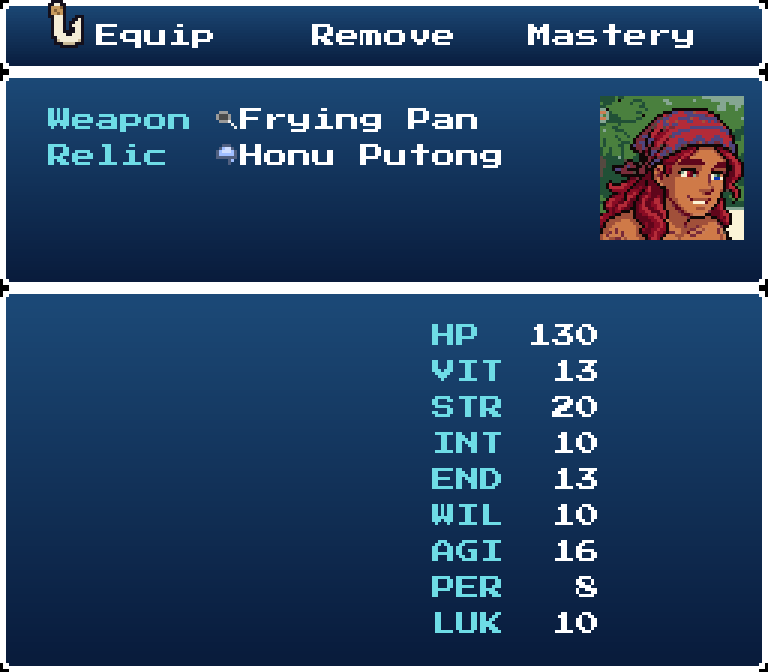
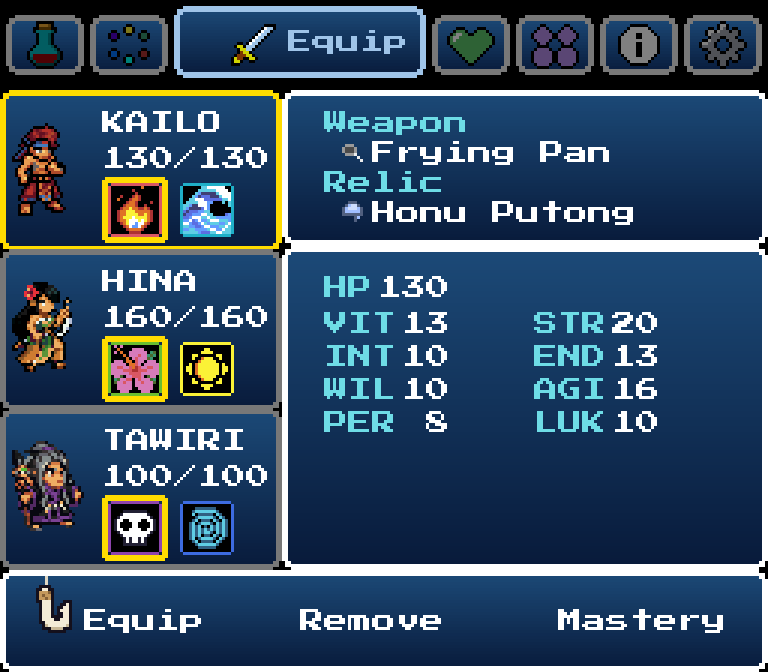
Site build 2026-11-18 09:24

diff --git a/manual.html b/manual.html
@@ -19,7 +19,7 @@
 <link rel="preconnect" href="https://fonts.googleapis.com">
 <link rel="stylesheet" href="https://fonts.googleapis.com/css2?family=Press+Start+2P&display=swap">
 <link rel="stylesheet" href="site.css?v=8ac13fef">
-<link rel="stylesheet" href="shell.css?v=7f9262b7">
+<link rel="stylesheet" href="shell.css?v=1eeab275">
 <script>(function(){var t=null,a=null,m=null;try{t=localStorage.getItem("nuitai-site-theme");a=localStorage.getItem("nuitai-ai-art");m=localStorage.getItem("nuitai-menu")||localStorage.getItem("nuitai-battle-menu")}catch(e){}document.documentElement.dataset.theme=(t==="dark"||t==="light")?t:"sepia";if(a==="off")document.documentElement.dataset.art="off";if(m==="hidden")document.documentElement.dataset.menu="hidden"})()</script>
 <script>document.documentElement.classList.add("turn")</script>
 <style>
@@ -546,7 +546,7 @@ else if(a.classList.contains("on")){d.classList.add("open");e.preventDefault()}}
       <div class="button" style="--b:#2f9447"><div class="badge"><big>Y</big><small>Button</small></div>
         <p>The Y Button uses the tool Kailo has set: the Ko'i, the Old Rod or the 'O'o (<a class="xref" href="#field">page 8</a>). Tap it to use the tool. Hold it to open the tool wheel, press the D-Pad toward a tool and let go to set it.</p></div>
       <div class="button" style="--b:#5d5a66"><div class="badge"><big>L/R</big><small>Buttons</small></div>
-        <p>On the Element, Equip and Status screens, press L or R to turn to the previous or next member of your party. While walking, press L or R to change who leads the way. In battle, Escape is played on L and R.</p></div>
+        <p>On the field menu, press L or R to turn to the previous or next tab. While walking, press L or R to change who leads the way. In battle, Escape is played on L and R.</p></div>
       <div class="button" style="--b:#5d5a66"><div class="badge"><big>Start</big><small>Button</small></div>
         <p>The START Button pauses the game. Press it again to pick up where you left off.</p></div>
       <div class="button" style="--b:#5d5a66"><div class="badge"><big>Sel</big><small>Select</small></div>
@@ -592,7 +592,7 @@ else if(a.classList.contains("on")){d.classList.add("open");e.preventDefault()}}
     <p>Some great beasts stand still and wait for you. When you walk up to one, you will be asked if you are ready. Say no to go back and prepare.</p>
     <h3 class="ring">Shops</h3>
     <div class="pair">
-      <figure class="shot"><div class="frame"><img src="manual/shop-buy.png" alt="The market stall's list: Noni Pulu, Taro, Wheat, Breadfruit and more, each with its price in pule" width="768" height="672"></div></figure>
+      <figure class="shot"><div class="frame"><img src="manual/shop-buy.png" alt="The grocer's list: Breadfruit, Noodles, Pia, seeds and more, each with its price in pule" width="768" height="672"></div></figure>
       <div>
         <p>Talk to a seller and choose <b>Buy</b> to see what they have, or <b>Sell</b> to sell from the bag: pick each thing and how many, then say yes once to the total. When choosing how many, Up and Down count one at a time, Left adds ten and Right takes ten off. Your pule is shown at the right.</p>
         <p>Prices are in <b>pule</b> <img class="coin" src="manual/pule.png" alt="">, the shell money of the islands. You will earn pule by winning battles, and sometimes by digging. Your wallet holds only so much, and bigger wallets can be bought, one size at a time. A full wallet takes no more: monsters drop none and digging finds none.</p>
@@ -645,40 +645,38 @@ else if(a.classList.contains("on")){d.classList.add("open");e.preventDefault()}}
     <h2 class="cap"><b class="dc">T</b><span class="rest">he Field<br>Menu</span></h2>
     <p class="lead">Press the X Button while walking around to open the field menu.</p>
     <figure class="shot"><div class="frame">
-      <img src="manual/menu.png" alt="The field menu" width="768" height="672">
-      <span class="pin" style="left:13%;top:12%">1</span>
-      <span class="pin" style="left:59%;top:11%">2</span>
-      <span class="pin" style="left:46%;top:20%">3</span>
-      <span class="pin" style="left:95%;top:28%">4</span>
-      <span class="pin" style="left:67%;top:68%">5</span>
-      <span class="pin" style="left:67%;top:87%">6</span>
+      <img src="manual/menu.png" alt="The field menu: seven tabs along the top, the party on the left, the Items page on the right" width="768" height="672">
+      <span class="pin" style="left:97%;top:12%">1</span>
+      <span class="pin" style="left:37%;top:24%">2</span>
+      <span class="pin" style="left:37%;top:31%">3</span>
+      <span class="pin" style="left:62%;top:30%">4</span>
+      <span class="pin" style="left:52%;top:92%">5</span>
     </div></figure>
     <ol class="key">
-      <li><b>1</b><span><b>Face</b><br>The three who fight. Move the cursor left onto the faces to change their order, or press Y on a face to switch the stance they start in.</span></li>
-      <li><b>2</b><span><b>Hit Points</b><br>HP. When a member's HP reaches 0, they fall.</span></li>
+      <li><b>1</b><span><b>Tabs</b><br>Seven of them: Items, Element, Equip, Status, Party, Info and Config. The open one shows its name. Press left or right to pick a tab, then down or A to open it. L and R change tabs from anywhere in the menu, and B steps back.</span></li>
+      <li><b>2</b><span><b>The party</b><br>The three who fight, with their HP, always on the left. Press left from a page to move the cursor here, then up or down to choose who the page is about. Press Y on a member to switch the stance they start in.</span></li>
       <li><b>3</b><span><b>Elements</b><br>The member's two elements. The boxed one is the stance they start a battle in.</span></li>
-      <li><b>4</b><span><b>Commands</b><br>Choose one with the D-Pad and press A.</span></li>
-      <li><b>5</b><span><b>Time and Steps</b><br>How long you have played and how far you have walked.</span></li>
-      <li><b>6</b><span><b>Money</b><br>Kupang <img class="coin" src="manual/kupang.png" alt="">, the coins, and pule <img class="coin" src="manual/pule.png" alt="">, the shells.</span></li>
+      <li><b>4</b><span><b>The page</b><br>What the open tab shows. This is the Items page.</span></li>
+      <li><b>5</b><span><b>Bottom window</b><br>It says what the cursor is on. When the cursor is not on anything, it shows your money: pule <img class="coin" src="manual/pule.png" alt=""> on the left, the shells, and kupang <img class="coin" src="manual/kupang.png" alt=""> on the right, the coins.</span></li>
     </ol>
     <div class="scroll">
     <table class="m">
       <tr><th>Command</th><th>What it does</th></tr>
-      <tr><td>Items</td><td>Look in the bag and use an item: heal someone, eat a seed, or learn a move.</td></tr>
+      <tr><td>Items</td><td>The party's bag. Use an item, give one to a member for battle, or learn a move from it.</td></tr>
       <tr><td>Element</td><td>Each member's element moves, row by row. Choose which moves go in which row.</td></tr>
       <tr><td>Equip</td><td>Change weapons and relics, take them off, and see how well each member knows their weapons.</td></tr>
-      <tr><td>Status</td><td>A page for each member: HP, Skill, stats and stances. Change the starting stance here.</td></tr>
+      <tr><td>Status</td><td>A page for each member: the eight stats, how close each is to growing, and their Skill. Press A to change the starting stance.</td></tr>
       <tr><td>Party</td><td>Choose who fights and who waits on the bench.</td></tr>
-      <tr><td>Info</td><td>Opens a short list: your Quests, the Bestiary, the Glossary, the Lore of the islands, and your Records.</td></tr>
+      <tr><td>Info</td><td>Your Quests, the Bestiary, the Glossary, the Lore of the islands and your Records, with the time you have played, your steps and the date.</td></tr>
       <tr><td>Config</td><td>Settings for the game: the cursor, how fast messages go, the window color, sound and the buttons.</td></tr>
     </table>
     </div>
     <p>There is no Save on the field menu. Save at an Akua totem (<a class="xref" href="#start">page 6</a>).</p>
-    <p>On the Element, Equip and Status screens, press L or R to turn to the next member without going back.</p>
+    <p>On the Element, Equip and Status tabs, move the cursor onto a member in the party column to see that member's page.</p>
 
     <h3 class="ring">Element</h3>
     <div class="pair">
-      <figure class="shot"><div class="frame"><img src="manual/loadout.png" alt="The Element screen: Hina's moves in numbered rows" width="768" height="672"></div></figure>
+      <figure class="shot"><div class="frame"><img src="manual/loadout.png" alt="The Element tab: Kailo's moves in numbered rows" width="768" height="672"></div></figure>
       <div>
         <p>Every element move sits in a numbered row, from 1 to 7. The row is what the move costs in Mana. Each row holds three moves.</p>
         <p>Move a move up to a higher row and it grows stronger, but it costs more.</p>
@@ -689,9 +687,9 @@ else if(a.classList.contains("on")){d.classList.add("open");e.preventDefault()}}
 
     <h3 class="ring">Equip</h3>
     <div class="pair">
-      <figure class="shot"><div class="frame"><img src="manual/equip.png" alt="The Equip screen: Kailo holds the Frying Pan" width="768" height="672"></div></figure>
+      <figure class="shot"><div class="frame"><img src="manual/equip.png" alt="The Equip tab: Kailo holds the Frying Pan" width="768" height="672"></div></figure>
       <div>
-        <p>First choose the member. The bar along the top holds three commands: <b>Equip</b>, <b>Remove</b> and <b>Mastery</b>.</p>
+        <p>Choose the member in the party column. The bar along the bottom holds three commands: <b>Equip</b>, <b>Remove</b> and <b>Mastery</b>.</p>
         <p><b>Equip</b>: choose the Weapon or the Relic, then what to wear. Before you take it, the stats show how it would change them, a gain in yellow and a loss in red, and a line says what it raises and what it lowers.</p>
         <p><b>Remove</b>: take the weapon or relic off and put it back in the bag.</p>
       </div>
@@ -705,20 +703,20 @@ else if(a.classList.contains("on")){d.classList.add("open");e.preventDefault()}}
 
     <h3 class="ring">Status</h3>
     <div class="pair">
-      <figure class="shot"><div class="frame"><img src="manual/status-kailo.png" alt="Kailo's Status page: his stats, his Skill and his two stances" width="768" height="672"></div></figure>
+      <figure class="shot"><div class="frame"><img src="manual/status-kailo.png" alt="Kailo's Status tab: his eight stats with their notches, and his Skill at the bottom" width="768" height="672"></div></figure>
       <div>
-        <p>Each member has a page: HP, the eight stats (<a class="xref" href="#stronger">page 28</a>), their Skill and their two stances.</p>
-        <p>The stance on top, in color, is the one they start every battle in. Press A to switch it, and watch the stats change with it.</p>
+        <p>Each member has a page: the eight stats (<a class="xref" href="#stronger">page 28</a>), each with a row of notches that fill as the stat gets closer to growing. The member's Skill is in the bottom window, with the stat under the cursor and its EXP to the next point.</p>
+        <p>The boxed element in the party column is the stance they start every battle in. Press A to switch it, and watch the stats change with it.</p>
       </div>
     </div>
 
     <h3 class="ring">Party</h3>
     <p>Only three fight at a time. The three on top fight; everyone else waits below.</p>
-    <p>Choose one, then another, and they trade places. Choose two from the same row to change their order. You can also change the order of the three by moving the cursor left onto the faces on the field menu.</p>
+    <p>Press A on one, then A on another, and they trade places. Two of the three on top change their order the same way. You can also do this from the party column on the left of any tab.</p>
 
     <h3 class="ring">Info</h3>
     <div class="pair">
-      <figure class="shot"><div class="frame"><img src="manual/data.png" alt="The Info screen: Bestiary, Lore and Quests" width="768" height="672"></div></figure>
+      <figure class="shot"><div class="frame"><img src="manual/data.png" alt="The Info tab: Quests, Bestiary, Glossary, Lore and Records, with the time, steps and date" width="768" height="672"></div></figure>
       <div>
         <p>Info opens a short list of five: <b>Quests</b>, <b>Bestiary</b>, <b>Glossary</b>, <b>Lore</b> and <b>Records</b>.</p>
         <p><b>Bestiary</b> has a page for every creature you have beaten. <b>Glossary</b> holds the island words you have learned, and <b>Records</b> what you have done so far.</p>
@@ -878,8 +876,8 @@ else if(a.classList.contains("on")){d.classList.add("open");e.preventDefault()}}
     <h2 class="cap"><b class="dc">I</b><span class="rest">tems</span></h2>
     <p class="lead">When your HP is low, during or after a battle, you will need items.</p>
     <div class="pair">
-      <figure class="shot"><div class="frame"><img src="manual/inventory.png" alt="The Items screen, with Noni in the bag" width="768" height="672"></div></figure>
-      <p>The party shares one bag, sorted by kind: Medicine, Ingredients, Meals, Weapons, Relics, Key Items and more. Use items with Items on the field menu, or Item in battle. On the field menu, Items asks which kind first; in a list, press left or right on the D-Pad to turn to the next kind, and each press of B goes back one step. The window at the top tells you what the item under the cursor does. When an item has an island name, the window says what it is in plain English first, such as "Noni poultice" or "Taro paste".</p>
+      <figure class="shot"><div class="frame"><img src="manual/inventory.png" alt="The Items tab: Kailo's battle bag on top, the shared bag below" width="768" height="672"></div></figure>
+      <p>The party shares one bag, sorted by kind: Medicine, Ingredients, Meals, Weapons, Relics, Key Items and more. Use items with Items on the field menu, or Item in battle. On the Items tab, the shared bag is the lower window: press up to the kind at its top, then left or right to turn to the next kind. Each press of B goes back one step. The window at the bottom tells you what the item under the cursor does. When an item has an island name, the window says what it is in plain English first, such as "Noni poultice" or "Taro paste".</p>
     </div>
 
     <h3 class="ring">Battle Bags</h3>

diff --git a/credits.html b/credits.html
@@ -17,7 +17,7 @@
 <meta name="robots" content="noindex, nofollow">
 <title>Credits and Legal · Nuitai</title>
 <link rel="stylesheet" href="site.css?v=8ac13fef">
-<link rel="stylesheet" href="shell.css?v=7f9262b7">
+<link rel="stylesheet" href="shell.css?v=1eeab275">
 <script>(function(){var t=null,a=null,m=null;try{t=localStorage.getItem("nuitai-site-theme");a=localStorage.getItem("nuitai-ai-art");m=localStorage.getItem("nuitai-menu")||localStorage.getItem("nuitai-battle-menu")}catch(e){}document.documentElement.dataset.theme=(t==="dark"||t==="light")?t:"sepia";if(a==="off")document.documentElement.dataset.art="off";if(m==="hidden")document.documentElement.dataset.menu="hidden"})()</script>
 </head>
 <body class="shelled">
@@ -232,7 +232,7 @@ legs/shorts/shorts/male/walk.png
 
   <section class="block hue" style="--h:45" id="ai">
     <h2>How AI was used</h2>
-    <p><b>The world is the author's.</b> Every place, people, god, name, date and rule in the wiki was decided by the author, in notes, conversations and a written list of decisions, 482 of them today. Claude does the clerical work: it sorts those facts into articles, writes them up in a plain encyclopedia voice, links each name to its page, and checks that the articles agree with each other. When Claude suggests something, it becomes part of Nuitai only if the author decides it, and then it is written down as the author's decision. The wiki is a record of the author's world, not creative writing by an AI.</p>
+    <p><b>The world is the author's.</b> Every place, people, god, name, date and rule in the wiki was decided by the author, in notes, conversations and a written list of decisions, 484 of them today. Claude does the clerical work: it sorts those facts into articles, writes them up in a plain encyclopedia voice, links each name to its page, and checks that the articles agree with each other. When Claude suggests something, it becomes part of Nuitai only if the author decides it, and then it is written down as the author's decision. The wiki is a record of the author's world, not creative writing by an AI.</p>
     <ul>
       <li><b>The illustrations</b> are AI placeholder concept art and will be replaced. Nearly all were made with Google Gemini, a few with ChatGPT, and each picture says which under it. They stand in until the author draws the real ones.</li>
       <li><b>The SNES Demo's faces</b> are cut down from the Gemini pictures, and four of its six small element icons were placed by Claude from the author's icons.</li>

diff --git a/behind-the-scenes.html b/behind-the-scenes.html
@@ -17,7 +17,7 @@
 <meta name="robots" content="noindex, nofollow">
 <title>Behind the Scenes · Nuitai</title>
 <link rel="stylesheet" href="site.css?v=8ac13fef">
-<link rel="stylesheet" href="shell.css?v=7f9262b7">
+<link rel="stylesheet" href="shell.css?v=1eeab275">
 <script>(function(){var t=null,a=null,m=null;try{t=localStorage.getItem("nuitai-site-theme");a=localStorage.getItem("nuitai-ai-art");m=localStorage.getItem("nuitai-menu")||localStorage.getItem("nuitai-battle-menu")}catch(e){}document.documentElement.dataset.theme=(t==="dark"||t==="light")?t:"sepia";if(a==="off")document.documentElement.dataset.art="off";if(m==="hidden")document.documentElement.dataset.menu="hidden"})()</script>
 <script>(function(){var r=document.documentElement,i=null;try{i=sessionStorage.getItem("nuitai-behind")}catch(e){}
 if(i!=="in")r.classList.add("gated")})()</script>

diff --git a/math.html b/math.html
@@ -17,7 +17,7 @@
 <meta name="robots" content="noindex, nofollow">
 <title>Battle Math · Nuitai</title>
 <link rel="stylesheet" href="site.css?v=8ac13fef">
-<link rel="stylesheet" href="shell.css?v=7f9262b7">
+<link rel="stylesheet" href="shell.css?v=1eeab275">
 <script>(function(){var t=null,a=null,m=null;try{t=localStorage.getItem("nuitai-site-theme");a=localStorage.getItem("nuitai-ai-art");m=localStorage.getItem("nuitai-menu")||localStorage.getItem("nuitai-battle-menu")}catch(e){}document.documentElement.dataset.theme=(t==="dark"||t==="light")?t:"sepia";if(a==="off")document.documentElement.dataset.art="off";if(m==="hidden")document.documentElement.dataset.menu="hidden"})()</script>
 <style>
   .roll { display: block; font-family: ui-monospace, Consolas, monospace; font-size: .85rem; color: var(--muted); margin-top: .2rem; }

diff --git a/ask.html b/ask.html
@@ -17,7 +17,7 @@
 <meta name="robots" content="noindex, nofollow">
 <title>Ask Sarjana · Nuitai</title>
 <link rel="stylesheet" href="site.css?v=8ac13fef">
-<link rel="stylesheet" href="shell.css?v=7f9262b7">
+<link rel="stylesheet" href="shell.css?v=1eeab275">
 <script>(function(){var t=null,a=null,m=null;try{t=localStorage.getItem("nuitai-site-theme");a=localStorage.getItem("nuitai-ai-art");m=localStorage.getItem("nuitai-menu")||localStorage.getItem("nuitai-battle-menu")}catch(e){}document.documentElement.dataset.theme=(t==="dark"||t==="light")?t:"sepia";if(a==="off")document.documentElement.dataset.art="off";if(m==="hidden")document.documentElement.dataset.menu="hidden"})()</script>
 <style>
 /* Ask Sarjana (Frankie, 10/15): a conversation with the scholar. His words in Wai's blue, the visitor's in a warm sand. */

diff --git a/404.html b/404.html
@@ -18,7 +18,7 @@
 <meta name="twitter:card" content="summary_large_image">
 <title>Lost at Sea · Nuitai</title>
 <link rel="stylesheet" href="site.css?v=8ac13fef">
-<link rel="stylesheet" href="shell.css?v=7f9262b7">
+<link rel="stylesheet" href="shell.css?v=1eeab275">
 <script>(function(){var t=null,a=null,m=null;try{t=localStorage.getItem("nuitai-site-theme");a=localStorage.getItem("nuitai-ai-art");m=localStorage.getItem("nuitai-menu")||localStorage.getItem("nuitai-battle-menu")}catch(e){}document.documentElement.dataset.theme=(t==="dark"||t==="light")?t:"sepia";if(a==="off")document.documentElement.dataset.art="off";if(m==="hidden")document.documentElement.dataset.menu="hidden"})()</script>
 </head>
 <body class="shelled">

diff --git a/tabletop.html b/tabletop.html
@@ -17,7 +17,7 @@
 <meta name="robots" content="noindex, nofollow">
 <title>Tabletop Guide · Nuitai</title>
 <link rel="stylesheet" href="site.css?v=8ac13fef">
-<link rel="stylesheet" href="shell.css?v=7f9262b7">
+<link rel="stylesheet" href="shell.css?v=1eeab275">
 <script>(function(){var t=null,a=null,m=null;try{t=localStorage.getItem("nuitai-site-theme");a=localStorage.getItem("nuitai-ai-art");m=localStorage.getItem("nuitai-menu")||localStorage.getItem("nuitai-battle-menu")}catch(e){}document.documentElement.dataset.theme=(t==="dark"||t==="light")?t:"sepia";if(a==="off")document.documentElement.dataset.art="off";if(m==="hidden")document.documentElement.dataset.menu="hidden"})()</script>
 </head>
 <body class="shelled">

diff --git a/items.html b/items.html
@@ -17,7 +17,7 @@
 <meta name="robots" content="noindex, nofollow">
 <title>Item Glossary · Nuitai</title>
 <link rel="stylesheet" href="site.css?v=8ac13fef">
-<link rel="stylesheet" href="shell.css?v=7f9262b7">
+<link rel="stylesheet" href="shell.css?v=1eeab275">
 <script>(function(){var t=null,a=null,m=null;try{t=localStorage.getItem("nuitai-site-theme");a=localStorage.getItem("nuitai-ai-art");m=localStorage.getItem("nuitai-menu")||localStorage.getItem("nuitai-battle-menu")}catch(e){}document.documentElement.dataset.theme=(t==="dark"||t==="light")?t:"sepia";if(a==="off")document.documentElement.dataset.art="off";if(m==="hidden")document.documentElement.dataset.menu="hidden"})()</script>
 </head>
 <body class="shelled">

diff --git a/old-pictures.html b/old-pictures.html
@@ -17,7 +17,7 @@
 <meta name="robots" content="noindex, nofollow">
 <title>Old Pictures · Nuitai</title>
 <link rel="stylesheet" href="site.css?v=8ac13fef">
-<link rel="stylesheet" href="shell.css?v=7f9262b7">
+<link rel="stylesheet" href="shell.css?v=1eeab275">
 <script>(function(){var t=null,a=null,m=null;try{t=localStorage.getItem("nuitai-site-theme");a=localStorage.getItem("nuitai-ai-art");m=localStorage.getItem("nuitai-menu")||localStorage.getItem("nuitai-battle-menu")}catch(e){}document.documentElement.dataset.theme=(t==="dark"||t==="light")?t:"sepia";if(a==="off")document.documentElement.dataset.art="off";if(m==="hidden")document.documentElement.dataset.menu="hidden"})()</script>
 </head>
 <body class="shelled">

diff --git a/letsplay.html b/letsplay.html
@@ -17,7 +17,7 @@
 <meta name="robots" content="noindex, nofollow">
 <title>Let's Play · Nuitai</title>
 <link rel="stylesheet" href="site.css?v=8ac13fef">
-<link rel="stylesheet" href="shell.css?v=7f9262b7">
+<link rel="stylesheet" href="shell.css?v=1eeab275">
 <script>(function(){var t=null,a=null,m=null;try{t=localStorage.getItem("nuitai-site-theme");a=localStorage.getItem("nuitai-ai-art");m=localStorage.getItem("nuitai-menu")||localStorage.getItem("nuitai-battle-menu")}catch(e){}document.documentElement.dataset.theme=(t==="dark"||t==="light")?t:"sepia";if(a==="off")document.documentElement.dataset.art="off";if(m==="hidden")document.documentElement.dataset.menu="hidden"})()</script>
 </head>
 <body class="shelled">

diff --git a/gallery.html b/gallery.html
@@ -17,7 +17,7 @@
 <meta name="robots" content="noindex, nofollow">
 <title>Gallery · Nuitai</title>
 <link rel="stylesheet" href="site.css?v=8ac13fef">
-<link rel="stylesheet" href="shell.css?v=7f9262b7">
+<link rel="stylesheet" href="shell.css?v=1eeab275">
 <script>(function(){var t=null,a=null,m=null;try{t=localStorage.getItem("nuitai-site-theme");a=localStorage.getItem("nuitai-ai-art");m=localStorage.getItem("nuitai-menu")||localStorage.getItem("nuitai-battle-menu")}catch(e){}document.documentElement.dataset.theme=(t==="dark"||t==="light")?t:"sepia";if(a==="off")document.documentElement.dataset.art="off";if(m==="hidden")document.documentElement.dataset.menu="hidden"})()</script>
 </head>
 <body class="shelled">

diff --git a/lexicon-spoilers.html b/lexicon-spoilers.html
@@ -17,7 +17,7 @@
 <meta name="robots" content="noindex, nofollow">
 <title>Lexicon · Nuitai</title>
 <link rel="stylesheet" href="site.css?v=8ac13fef">
-<link rel="stylesheet" href="shell.css?v=7f9262b7">
+<link rel="stylesheet" href="shell.css?v=1eeab275">
 <script>(function(){var t=null,a=null,m=null;try{t=localStorage.getItem("nuitai-site-theme");a=localStorage.getItem("nuitai-ai-art");m=localStorage.getItem("nuitai-menu")||localStorage.getItem("nuitai-battle-menu")}catch(e){}document.documentElement.dataset.theme=(t==="dark"||t==="light")?t:"sepia";if(a==="off")document.documentElement.dataset.art="off";if(m==="hidden")document.documentElement.dataset.menu="hidden"})()</script>
 </head>
 <body class="shelled">
